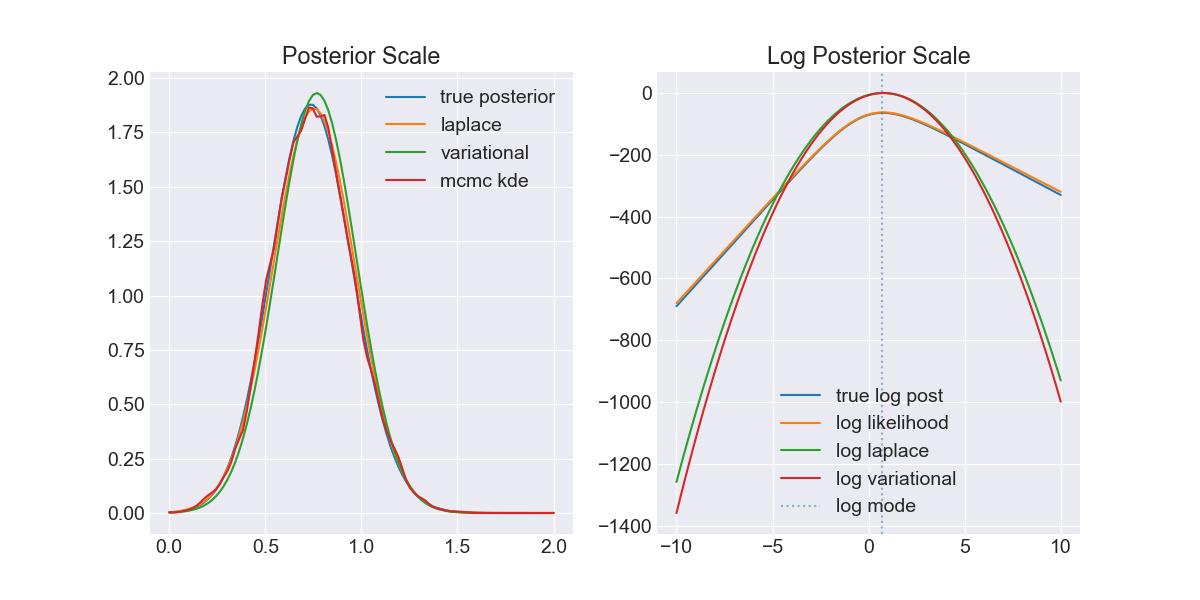
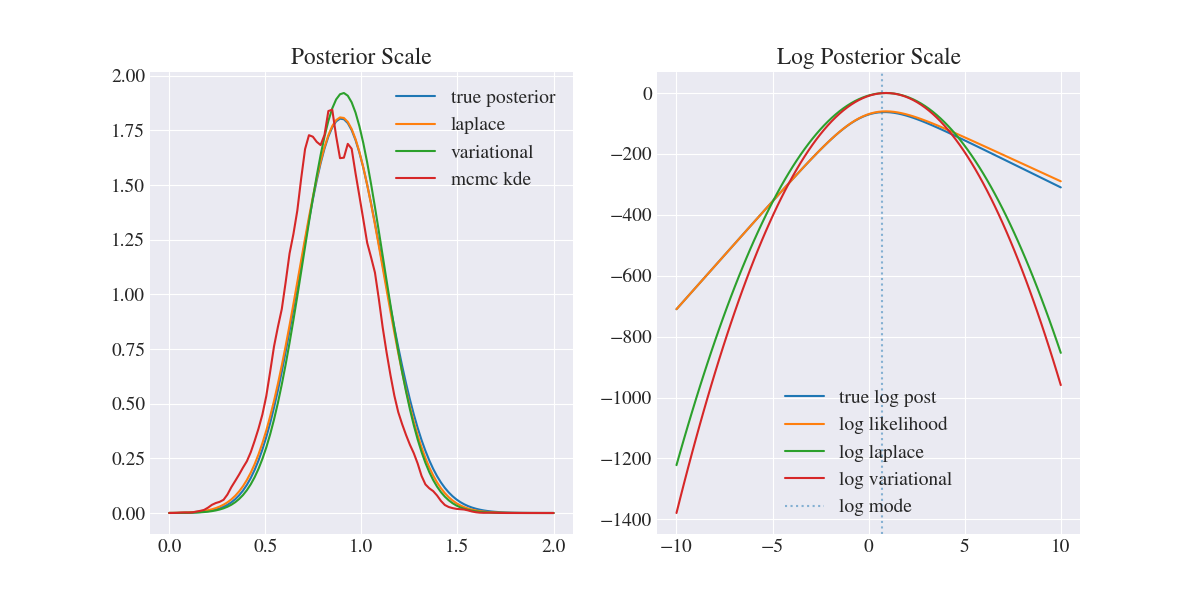
updated true posterior with flat BETA prior instead. Changed Beta function parameters. Added save_image function£

diff --git a/no_explanatory_variables.py b/no_explanatory_variables.py
@@ -1,10 +1,9 @@
 from utility_functions import sigmoid, logit, log_normal_kernel, lambda_func,\
-    blue_cmap, oran_cmap, setup_plotting, metropolis
+    blue_cmap, oran_cmap, setup_plotting, metropolis, mkdir_p
 from scipy.stats import norm, gaussian_kde
 from scipy.special import beta
 import numpy as np
 import matplotlib.pyplot as plt
-import seaborn as sns
 
 
 setup_plotting()
@@ -20,15 +19,15 @@ class NoExplanatoryVariables:
     random variables. By taking the log we get the true log posterior
     distribution.
     """
-    def __init__(self):
+    def __init__(self, save=True):
         self.n = n
         # Mean of observations
         self.ybar = ybar
         # Sum of observations
         self.sum = self.n*self.ybar
         # Parameters for beta distribution.
-        self.a = self.sum + 1
-        self.b = self.n - self.sum + 1
+        self.a = self.sum
+        self.b = self.n - self.sum
         self.true_log_mode = self.a / (self.a + self.b)  # found by derivative
         # Laplace mean and sigma squared
         self.lap_mean = logit(self.ybar)
@@ -38,6 +37,24 @@ class NoExplanatoryVariables:
         # mcmc samples and stuff
         self.samples = np.array([])
         self.ar = None  # Acceptance rate
+        # Whether to save images or not
+        self.save = save
+
+    def save_image(self, image_name):
+        """Creates directory where we can save images."""
+        try:
+            plt.savefig("images/no_explanatory/{}/{}".format(
+                "n_{}_s_{}".format(self.n, len(self.samples)),
+                image_name)
+            )
+        except FileNotFoundError:
+            mkdir_p("images/no_explanatory/{}".format(
+                "n_{}_s_{}".format(self.n, len(self.samples))))
+            plt.savefig("images/explanatory/{}/{}".format(
+                "n_{}_s_{}".format(self.n, len(self.samples)),
+                image_name)
+            )
+        return
 
     def true_posterior(self, t):
         """Transformation of beta distribution (not a beta anymore)"""
@@ -164,7 +181,8 @@ class NoExplanatoryVariables:
                                  var_scales[i] - lap_scales[i]))
         plt.tight_layout()
         plt.subplots_adjust(top=0.95)
-        plt.savefig("images/no_explanatory/comparing_no_exp_approximations.png")
+        if self.save:
+            self.save_image("mean_sd_comparison.png")
         plt.show()
 
 
@@ -197,7 +215,8 @@ if __name__ == "__main__":
     ax[1].set_title('Log Posterior Scale')
     ax[1].axvline(model.true_log_mode, alpha=0.5, ls=':', label='log mode')
     ax[1].legend()
-    plt.savefig("images/no_explanatory/no_explanatory.png")
+    if model.save:
+        model.save_image("posterior_laplace_variational.png")
     plt.show()
     # Compare mean and scale of Laplace and Variational normal approximations
     model.compare_approximations(1000, 10000, 1000)
